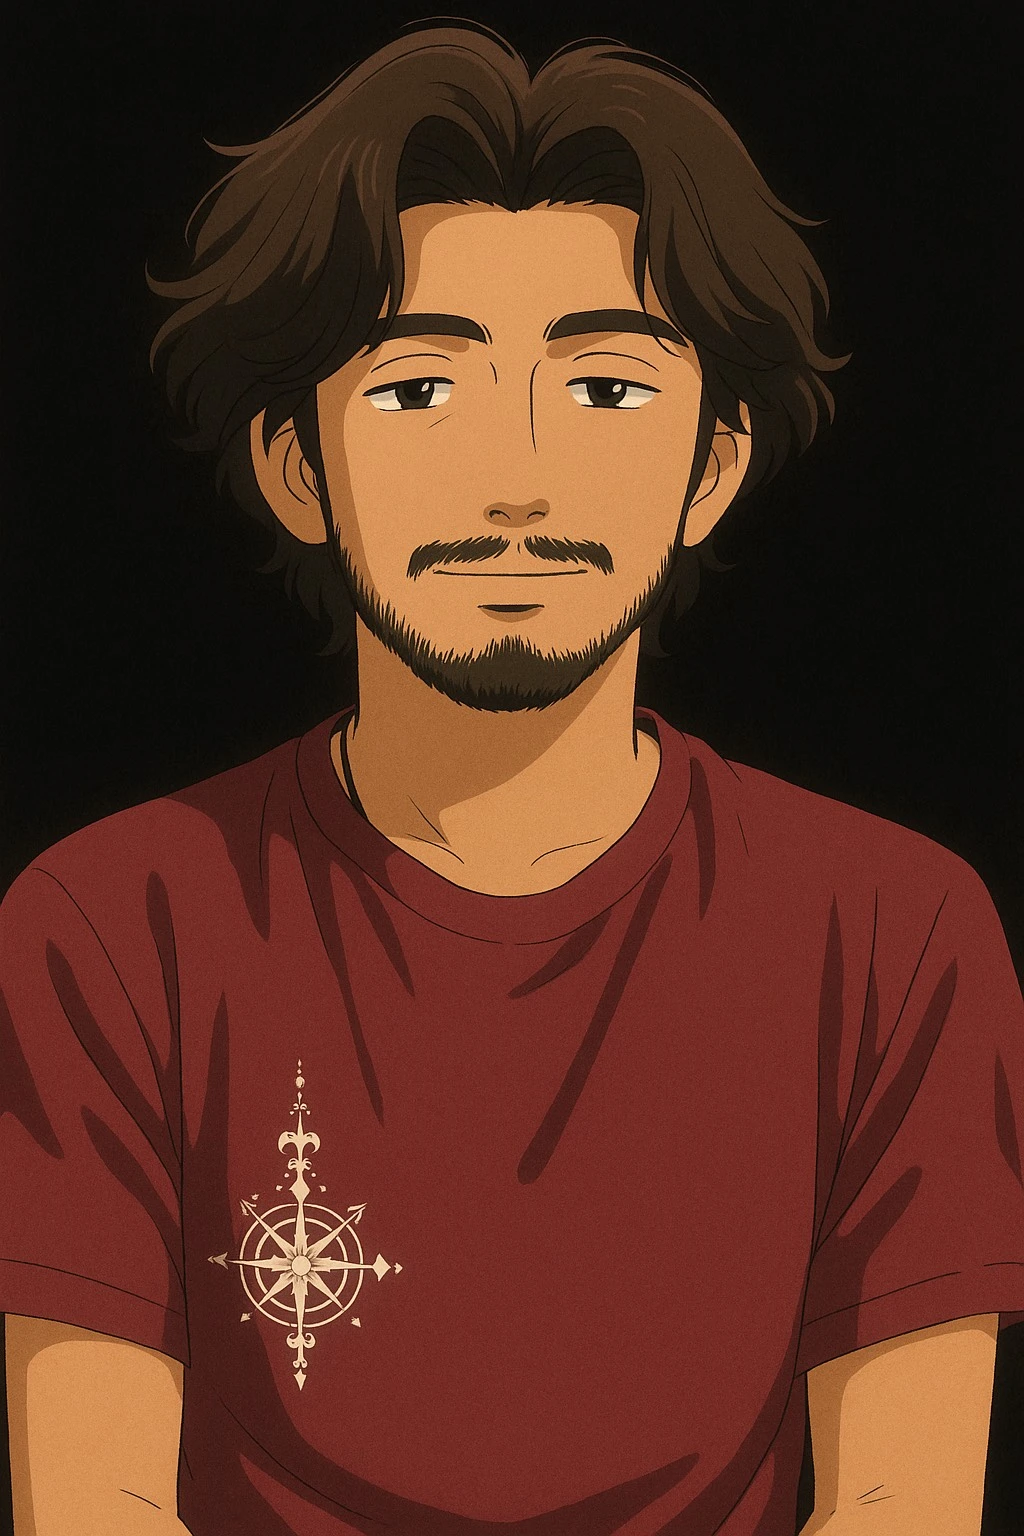
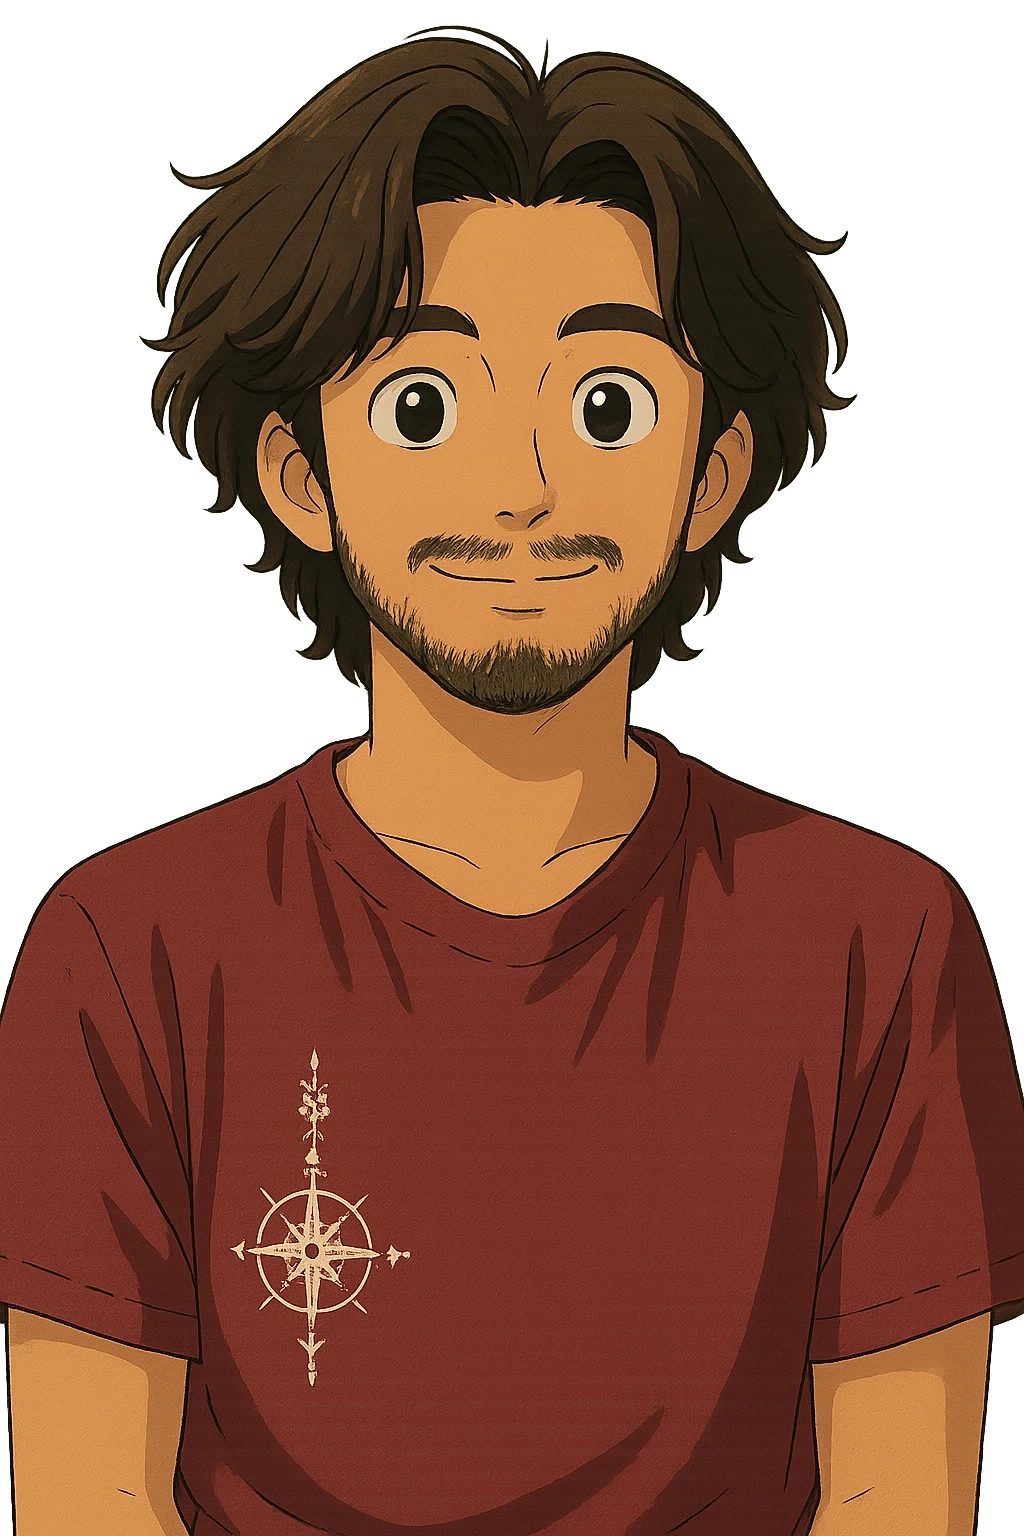
add About component; implement Navbar with corrected spelling and update Portfolio image

diff --git a/components/About.tsx b/components/About.tsx
@@ -1,0 +1,15 @@
+import React from 'react'
+import Image from 'next/image'
+const About = () => {
+    return (
+        <section className='w-full flex flex-row justify-around items-center gap-10'>
+            <Image src="/Portfolio.webp" alt="photo" width={200} height={100} className='rounded-full opacity-90'/>
+            <div>
+                <h1 className="text-4xl font-bold ">Welcome to My Portfolio</h1>
+                <p className="text-lg mt-5">I am a passionate web developer with a knack for creating dynamic and responsive web applications. My journey in web development has been fueled by a love for technology and a desire to create impactful digital experiences.</p>
+            </div>
+        </section>
+    )
+}
+
+export default About

diff --git a/components/Navbar.tsx b/components/Navbar.tsx
@@ -10,7 +10,7 @@ const Navbar = () => {
               <li>About</li>
               <li>Projects</li>
               <li>Experience</li>
-              <li>Contanct</li>
+              <li>Contact</li>
             </ul>
         </div>
     </nav>

diff --git a/app/(root)/page.tsx b/app/(root)/page.tsx
@@ -1,6 +1,8 @@
+import About from '@/components/About';
 export default function Home() {
   return (
-    <>
-    </>
+    <main className="flex max-h-screen flex-col py-20">
+      <About />
+    </main>
   );
 }
